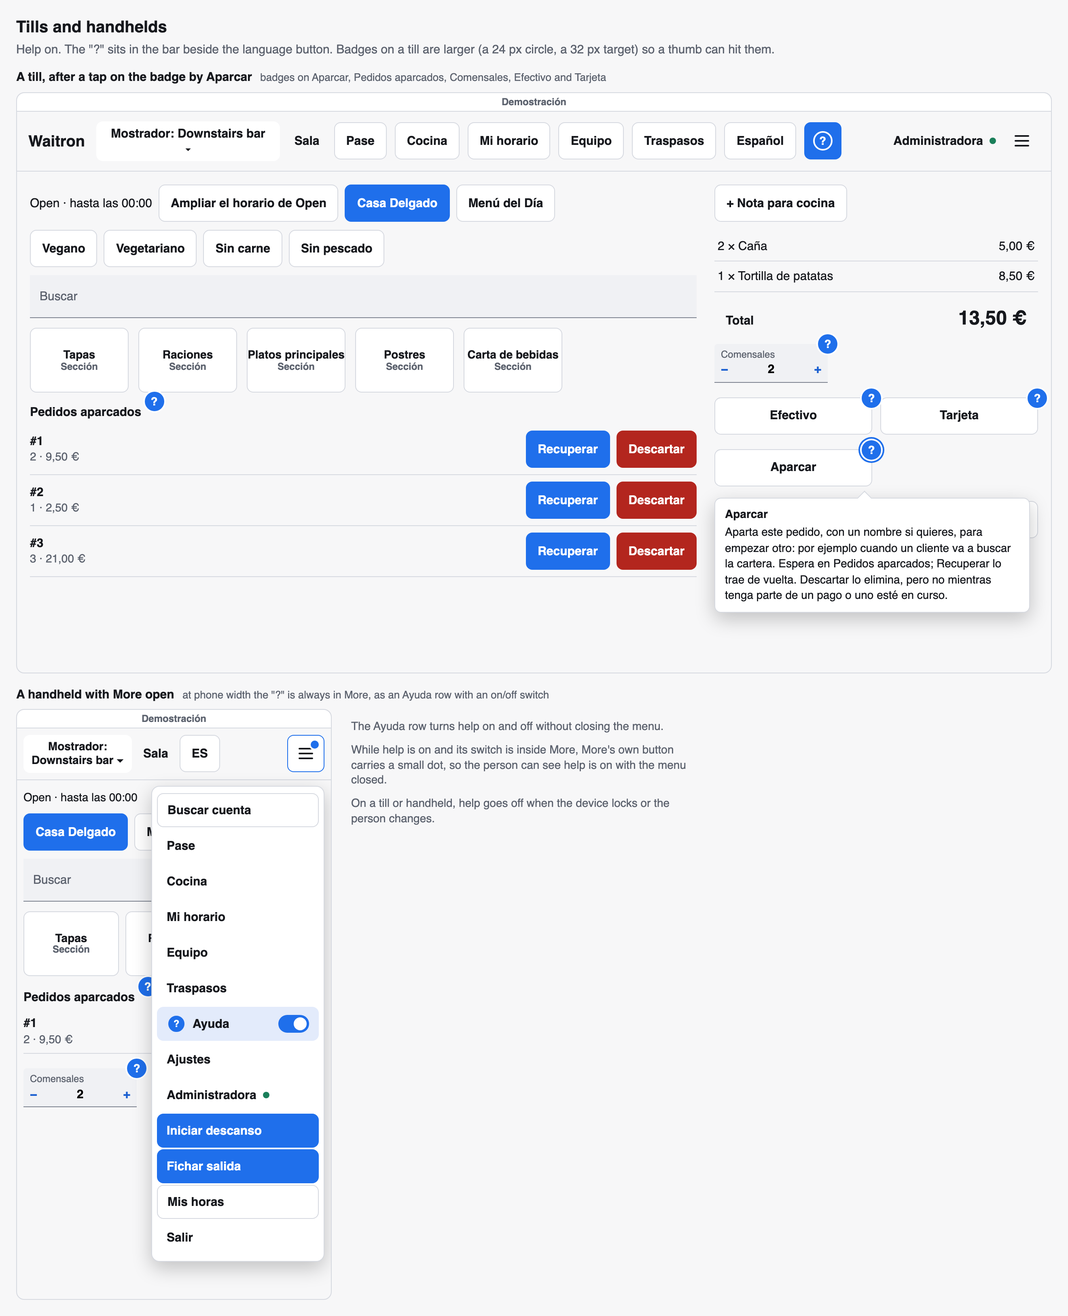
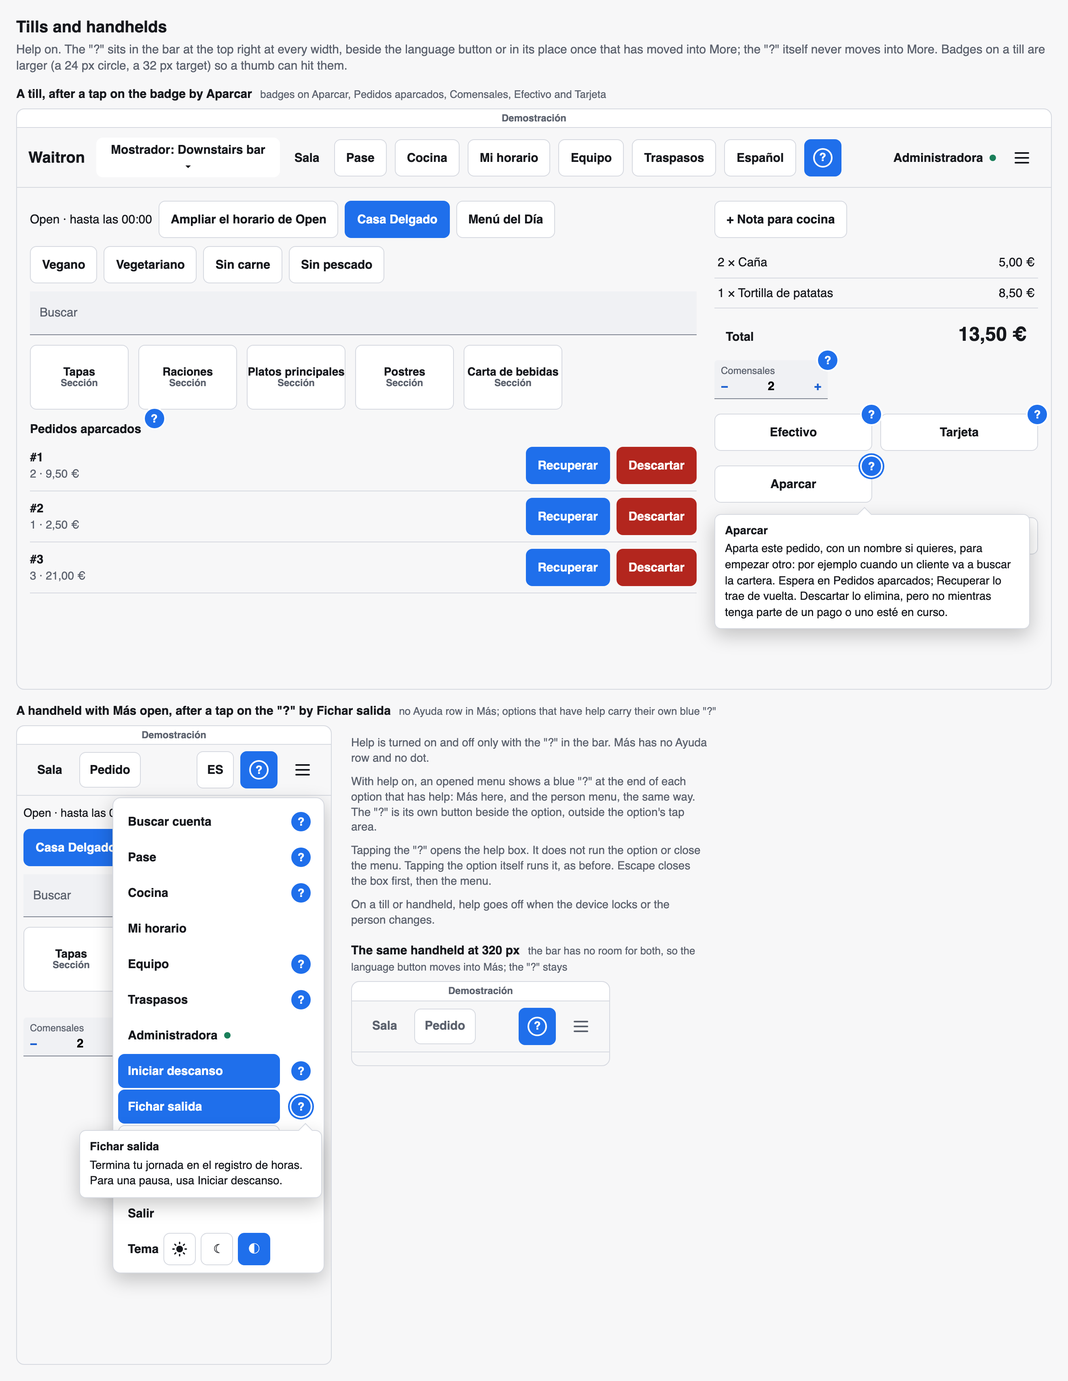
Record the owner's approval of the A582 help-mode design, with his one change
The owner approved help mode on 2026-10-18 (question Q37), with answers (a) to (e)
as recommended and one change: on a till or handheld there is no Help row in the
More menu. The "?" that turns help on stays in the bar at the top right at every
width, and with help on, an open menu shows a blue "?" beside each option that has
help.

The design now says:
- The "?" is never moved into More. Above phone width the bar's existing measuring
  counts it, and items leave in the same order as before. At phone width, when the
  bar no longer fits, the language chooser moves into More. Both were measured with
  throwaway browser tests in apps/till, deleted afterwards. At 320 px the tabs came
  up 2 to 53 px short with the "?" added, and fitted once the chooser had left.
- A new section on badges inside menus. The "?" is its own button at the end of the
  option's row. A tap on it opens the help box and neither runs the option nor
  closes the menu, through the menu's existing data-keep-open mark. It is its own
  Tab stop after the option, and a screen reader hears it as "Help: <option>". A
  throwaway test confirmed the tap, Escape and Tab behaviour, with a control that
  closed the menu.
- Slices: the menu badge is built in slice 2 for the dashboard's account and row
  menus and used in slice 4 for the till's More and person menus. Slice 1 stays the
  badge, the switch and the field and heading slots.
[…]

diff --git a/docs/superpowers/specs/2026-10-18-a582-help-mode-design.md b/docs/superpowers/specs/2026-10-18-a582-help-mode-design.md
@@ -1,14 +1,32 @@
 # A582 — Help mode: a "?" in the top bar marks everything that has help
 
-Status: **design, waiting for the owner's answer to one question (Q37 in lane C's questions file,
-repeated in §9 below). Nothing is built until then.** Backlog entry: `docs/backlog.md` "A582" and
+Status: **approved by the owner on 2026-10-18, with one change** (his answer to Q37, §9). On a till
+or handheld there is no Help row in the More menu: the "?" that turns help on stays in the bar at
+the top right at every width (§3.2). With help on, an open menu shows a blue "?" beside each option
+that has help (§3.3). Being built in lane C: slice 1 on branch `feat/a582-1-help-badge`.
+Backlog entry: `docs/backlog.md` "A582" and
 [its detail](../../backlog/dashboard.md#a582-help-mode-a--in-the-top-bar-marks-everything-that-has-help-owner-2026-10-13).
 Pictures: `docs/backlog/mockups/a582-help-mode/` (drawn in HTML with the apps' colour tokens, not
 screenshots; 02 also in dark, `-dark.png`).
 
-File references are to `main` at `2337d76e3`. **(read)** marks a conclusion from reading code, not
-from running it. Nothing in this design was run: it changes no behaviour, and every statement about
-today's code is (read).
+**Decided (owner, 2026-10-18), each as recommended in §9:**
+
+- (a) The look: a "?" in each top bar (the kitchen screens' corner); badges hang over a part's
+  corner so nothing moves; a badge opens a short box with an optional "Read more in the guide";
+  everything else keeps working while help is on. With the change above.
+- (b) Guide pages are served by the box itself, in English and Spanish, opening in a new tab on the
+  dashboard and in a full-screen sheet on a till.
+- (c) Help stays on until reload or sign-out on the dashboard, until the till locks or the person
+  changes, and until two minutes pass without a touch on a kitchen screen.
+- (d) The dashboard's always-visible "?" buttons become help-mode badges; the setup wizard keeps
+  its own.
+- (e) The order: badge and switch, then the dashboard with Products first, then guide pages, then
+  tills and handhelds, then kitchen screens and monitors (§8).
+
+File references are to `main` at `2337d76e3`, except those in §3.2, §3.3 and §5's menu line,
+added for the owner's change, which are to `main` at `f316485d0`. **(read)** marks a conclusion from
+reading code, not from running it. The measurements in §3.2 and §3.3 were run, and each says what
+ran; every other statement about today's code is (read).
 
 **Words.** A **badge** is the small circled "?" that help mode shows beside one part of a page. The
 **switch** is the circled "?" in the top bar that turns help mode on and off. A **guide page** is a
@@ -25,6 +43,9 @@ inside. And then if you click any of those, it gives you help or it takes you to
 documentation. So it's essentially a help mode that you can turn on and off. It doesn't obscure the
 page during the normal use, but you can get help about anything you want very quickly." And: "This
 for the dashboard and the devices, handhelds and tills. And probably the screens, monitors as well."
+
+Answering this design (2026-10-18): "The ayuda in the menu should go. Turn on help in the top right,
+open the menu, see options with a blue ? next to them, click the ? to see help."
 
 ## 2. What exists today
 
@@ -102,14 +123,76 @@ turns it off with the banner "?" again.
 session ends (§6).
 
 At phone width (picture 03) the banner keeps the "?" in its first row with the bell and the account
-menu; the logo column is the one that shrinks, as it already does for the other controls.
+menu; the logo column is the one that shrinks, as it already does for the other controls. That
+shrinking has a floor, and an earlier measurement says the "?" alone goes below it: in A681's plan
+review (2026-10-17, `docs/developers/design-system.md` → Dashboard banner), a 52 px stand-in in the
+signed-in banner shrank the lockup to 15 px at 360 px and 45 px at 390 px, below the 60 px that
+`apps/dashboard/src/dashboard-app.test.ts:5587` requires. (read: that receipt was not re-run for
+this design.) Slice 2 finds the room and its plan says how. The "?" stays in the banner, not in the
+account menu. The owner's answer was about the till's menu, but "Turn on help in the top right"
+reads as applying to the dashboard too; that is this design's reading, not his words about the
+dashboard.
 
 ### 3.2 Tills and handhelds (picture 04)
 
-The "?" joins the bar beside the language chooser. Like every other item it moves into More when
-the bar runs out of room, where it becomes a "Help" row with an on/off mark; at phone width it is
-always there. When help is on and the "?" is inside More, More's own button carries a small dot, so
-the person can see help is on without opening the menu.
+The "?" sits at the top right of the bar at every width (owner, 2026-10-18). It goes just after the
+language chooser, before the person's name and More, or in the chooser's place once the chooser
+has moved into More (below). **It never moves into More.** It is not one of the items in `LEAVE_ORDER`
+(`apps/till/src/widgets/till-shell.ts:50`), so More has no Help row and no "help is on" mark: the
+filled "?" in the bar already shows that help is on. Turning help on or off from the bar happens
+outside every menu, so a menu opened afterwards is drawn with or without its badges (§3.3).
+
+**How the bar makes room for it.** The "?" is a 44 px button plus the gap before it: 12 px above
+phone width and 8 px at phone width (`till-shell.ts:204` and `:247`). That is 56 or 52 px the bar did
+not have to find before.
+
+- **Above phone width** (wider than 40rem, `PHONE_WIDTH` in
+  `apps/till/src/widgets/language-chooser-styles.ts:4`), the bar already measures itself and moves
+  items into More one at a time until it fits on one row (`#fit`, `till-shell.ts:481`). The "?"
+  never leaves, like the language chooser, so its width is simply part of what the bar measures. The
+  items leave in the same order as today, each at a slightly wider screen. Measured 2026-10-18 on
+  `main` at `f316485d0`, with a throwaway Vitest browser test in `apps/till` (headless Chromium,
+  deleted afterwards). The test mounted `till-shell` in Spanish with Find a bill, Pass, Kitchen, My
+  schedule, Profile and Transfers present, with 56 px of padding standing in for the "?", from 660
+  to 1500 px in steps of 20 px, beside the same bar without it. The test covered the handheld's
+  tabs, the till's, and the till's with a counter-zone menu. The Waitron name left first, then
+  Transfers, Equipment, Profile, My schedule and Kitchen, the same order as without the stand-in;
+  with it, Pass also left at 660 px on the till with a counter-zone menu. At none of the widths
+  sampled did the stand-in send more than one extra item into More. At 1300 px, for example,
+  Transfers was in More with it and on the bar without it.
+- **At phone width** the bar does no measuring (`#fit` returns early, `till-shell.ts:484`). Every
+  item in `LEAVE_ORDER` is already in More (`till-shell.ts:392`), so the bar holds only the tabs,
+  the language chooser and More. The tabs take the room that is left and scroll sideways when it is
+  not enough (`till-shell.ts:129–137` and `:238`). Measured on the same day and commit with another
+  throwaway test of the same kind, at 320, 360 and 390 px
+  in Spanish and in English, with a 44 px stand-in placed after the language chooser, comparing the
+  width the tab strip needed with the width it got:
+
+  | Bar at phone width                                  | 320 px                       | 360 px                       | 390 px |
+  | --------------------------------------------------- | ---------------------------- | ---------------------------- | ------ |
+  | Handheld: Sala, Pedido                              | needs 135, gets 132 (EN 133/131) | fits                     | fits   |
+  | Till form factor: Mostrador, Sala                   | needs 159, gets 132 (EN 149/131) | fits                     | fits   |
+  | Till with a counter-zone menu: Mostrador: … ▾, Sala | needs 178, gets 132 (EN 184/131) | needs 178, gets 172 (EN 184/171) | fits |
+
+  Without the stand-in, which is today's bar, the strip got 184 px at 320 (183 in English), and
+  every case fitted except one: English with a counter-zone menu was already 1 px short. With the
+  language chooser taken off the bar and the stand-in in its place, the strip got 192 px at 320,
+  232 at 360 and 262 at 390, and every case fitted.
+
+  **The rule:** at phone width, when the bar does not fit on one row with the "?", the language
+  chooser is the next item to leave. At phone width it is the only item left on the bar that can.
+  It moves into More, where it still opens the same list of languages. Today nothing at phone width
+  checks whether the bar fits, so slice 4 adds that check: the bar's existing check for "too wide"
+  (`#wraps`, `till-shell.ts:472`, which compares the bar's and the tab strip's needed widths with
+  the widths they get) runs at phone width for this one step. The slice 4 plan decides where in More the chooser
+  goes and in what form. On a handheld this keeps the chooser on the bar at 360 px
+  and wider and moves it into More at 320 px. On a till-form-factor device it moves into More at
+  320 px, and at 360 px too when the till has a counter-zone menu. Once the chooser has left, the
+  tabs get 8 px more than they get today (9 in English), so every bar measured that fits today
+  still fits. The cost: a
+  language change at 320 px takes one more tap, and More gains a row on a screen where it is already
+  taller than the room it gets (`docs/backlog.md`, "On a short phone the till's More menu is taller
+  than the room it gets").
 
 **Marc, on his first shift at the counter**, does not know what Hold (Aparcar) does. He turns help
 on; badges appear beside Hold, the Held orders list, Guests and the payment buttons (the Held orders
@@ -131,7 +214,63 @@ never a new tab: a till runs full-screen and has no tab bar to come back by.
 **On a till, help goes off when the till locks or the person changes**, so the next person never
 starts with badges on.
 
-### 3.3 Kitchen screens and monitors (picture 05)
+### 3.3 Badges inside menus (picture 04)
+
+With help on, opening a menu shows a blue "?" at the trailing end of each option that has help:
+the till's More and person menus, the dashboard's account menu, a table row's ⋮ menu (each a
+`wt-row-actions`). Tapping that "?" opens the help box for that option (owner, 2026-10-18). Help is
+switched from the bar, outside every menu, and a tap outside an open menu closes it. So usually a
+menu gets its badges when it opens. Help can still change while a menu is open: a keyboard user
+can move focus out of an open menu back to the bar's "?" with Shift+Tab, because focus leaving a
+`wt-row-actions` menu does not close it (read: it closes on a chosen action or Escape,
+`wt-row-actions.ts:180–192`, and on a tap outside through the browser's own popover behaviour,
+`:208`; nothing in it listens for focus leaving). Then the open menu shows or hides its badges at once, and slice 2
+tests that case.
+
+- **Its own button, beside the option.** The badge is a separate button next to the option, never
+  inside it: a button inside a button is not valid HTML, and the tap would reach both. The option
+  keeps its full height and the rest of the row's width. The badge takes a 44 px square
+  (`--wt-tap-min`) at the row's trailing end, outside the option's tap area, with the same circle
+  as a page badge (24 px on a till and a handheld, 20 px on the dashboard). Unlike a page badge, a
+  menu badge takes room of its own: hung over the option's corner, it would cover the option's
+  label or part of the place a person taps to run it. A menu that has badges can be up to that
+  square wider.
+- **A tap on the "?"** opens the help box under the badge, kept inside the window as everywhere. It
+  does not run the option and does not close the menu. A tap on the option itself runs it and
+  closes the menu, as today, and closes an open box with it. A second tap on the "?" or Escape
+  closes the box. The first Escape closes only the box and puts focus back on the "?"; the next one
+  closes the menu.
+  `wt-row-actions` closes on a click on any button inside it unless the click passed through an
+  element marked `data-keep-open` (`packages/ui/src/components/wt-row-actions.ts:147`, read). The
+  menu badge carries that mark. Measured 2026-10-18 with a throwaway Vitest browser test in
+  `apps/till` (headless Chromium, deleted afterwards). A `wt-row-actions` held a row with a
+  `wt-button` option and today's `wt-help-tooltip` beside it marked `data-keep-open`. A click on
+  the "?" left the menu open, opened the box and did not run the option. Escape closed the box,
+  with the menu still open and focus on the "?". A second Escape closed the menu. A click on the
+  option ran it and closed the menu, and with the box open it closed the box too. The control, the
+  same row without `data-keep-open`: a click on the "?" closed the menu, and the box was not open
+  afterwards.
+- **Keyboard.** `wt-row-actions` moves between its items with Tab, not the arrow keys; its only key
+  of its own is Escape (`wt-row-actions.ts:185`, read). So the badge is its own Tab stop, straight
+  after its option, and Enter or Space opens its box. While help is off the badge is not drawn and
+  adds no stop. Measured in the same test: Tab from the menu's button went to the option, then its
+  "?", then the next option. With focus on the "?", Enter opened the box, a second Enter closed it,
+  and Space opened it again, each time with the menu still open and the option not run.
+- **Not in this work:** the menus whose options move with the arrow keys, which are the language
+  and theme choosers, through `MenuPopover` (`packages/ui/src/menu-popover.ts:134`). Also left out
+  are lists marked `role="menu"` inside a `wt-row-actions`, such as the till's counter-zone menu
+  (`till-shell.ts:750`), because a plain button inside `role="menu"` is not a menu item to a screen
+  reader. None of their options (a language, a theme, a counter zone) needs help. Whichever of
+  these menus first needs a badge settles how one is reached there; in an arrow-key menu, the
+  arrow-right key from the option is one way.
+- **What a screen reader hears.** The option is heard as today, for example "Cocina, button". The
+  badge is a separate button named "Help:" and the option's label ("Ayuda: Cocina"), announced as
+  expanded or collapsed. Once open, its box is read as the badge's description, as
+  `wt-help-tooltip` does today (`packages/ui/src/components/wt-help-tooltip.ts:127–129`, read).
+  `wt-row-actions`' popup is not `role="menu"` (`wt-row-actions.ts:208`, read), so a second button
+  in a row is valid there.
+
+### 3.4 Kitchen screens and monitors (picture 05)
 
 They have no bar, so the "?" joins the theme and language corner. On a station board or the pass,
 badges explain the board's buttons and what its colours and times mean. On a monitor, which has no
@@ -162,12 +301,18 @@ kitchen screen is often left alone and nobody would think to turn it off.
 - **One shared element.** `wt-help-tooltip` grows into the help-mode badge (renamed `wt-help`, or
   kept under its name; the plan decides). It reads one app-wide help switch. While help is off it
   draws nothing and takes no room. While on, it draws the badge over the top trailing corner of
-  where it sits, without changing the layout around it.
+  where it sits, without changing the layout around it. The exception is a menu row, where it
+  takes its own square (§3.3).
 - **Where it goes.** In a field's existing `help` slot; beside a heading; on a table column through a
   `help` text on the column's definition in `wt-data-table`; on a tab through a `help` text on the
   tab item in `wt-tabs`; in a dialog's heading or a folding section's (`wt-disclosure`).
   `wt-price-input`, `wt-number-stepper` and `wt-file-input` gain the `help` slot `wt-input` has;
   the other field primitives gain one when a screen first needs it. The primitives draw the badge; a screen never draws its own.
+- **In a menu (§3.3)**, the badge is the same element, placed by a menu-row element that
+  `packages/ui` adds for `wt-row-actions` (the slice 2 plan names it). The row lays out the option
+  with the badge in its own square at the trailing end, and marks the badge `data-keep-open` so the
+  menu stays open (`wt-row-actions.ts:147`). A screen gives an option its help text through that
+  row; it never draws the badge or the row's layout itself.
 - **The box** keeps today's behaviour (opens below, pushed up when there is no room; clamped inside
   the window; Escape, a click outside, a second tap or focus leaving close it) and gains an optional "Read more in the guide" link and, on a till, the sheet.
 - **The switch** is a small piece of shared state in `packages/ui`, beside the theme choice
@@ -177,7 +322,8 @@ kitchen screen is often left alone and nobody would think to turn it off.
 
 - The switch is a toggle button ("Help", pressed or not). Each badge is a real button named for its
   part ("Help: Selling unit"), reachable with Tab only while help is on. The box is announced as the
-  badge's description, as today.
+  badge's description, as today. In a menu, the badge is the Tab stop straight after its option
+  (§3.3).
 - Help stays on across pages in one browser tab and goes off on reload, sign-out or session end
   (dashboard), on lock or a change of person (till and handheld), and after two minutes without a
   touch (kitchen screen and monitor). It is not saved anywhere, so it needs no migration and no
@@ -201,15 +347,22 @@ Each slice is one pull request one implementer can finish (well under ~100 tool 
    with no layout change; `wt-price-input`, `wt-number-stepper` and `wt-file-input` gain the
    `help` slot; `wt-disclosure` and `wt-dialog` take one beside their heading; the
    design-system entry. Tests: the badge takes no room while off (measured), paints from tokens, axe
-   in both themes on and off.
-2. **The dashboard**: the banner switch; `help` on table columns and tabs; the four dashboard "?"
-   become badges; Products as the first screen with help on every part that needs it.
+   in both themes on and off. Slice 1 is only the badge, the switch and the help slots on fields
+   and headings. Badges inside menus are not part of it.
+2. **The dashboard**: the banner switch, with room found for it at phone width (§3.1); `help` on
+   table columns and tabs; §7's dashboard "?" buttons become badges; Products as the first screen with
+   help on every part that needs it. **The menu-option badge** (§3.3) is built here: the menu-row
+   element in `packages/ui`, `data-keep-open` on its badge, the Tab order, and its tests (a tap on
+   the "?" opens the box without running the option or closing the menu, Escape closes the box
+   first). Its first users are the dashboard's account menu and the ⋮ row menus (`wt-row-actions`).
 3. **Guide pages on the box**: the three guides move to `docs/guide/en/` and get Spanish twins;
    built into the image; served at `/help/<language>/<page>`; "Read more" from Products. A new
    unauthenticated route, so its review is FULL. If rendering the guides needs a new third-party
    library, its licence notice ships with it (`CLAUDE.md` §3).
-4. **Tills and handhelds**: the bar switch and its More row; badges on Counter, Floor and Order; the
-   guide sheet; off on lock or a change of person.
+4. **Tills and handhelds**: the bar switch at the top right at every width, never in More, with
+   the language chooser moving into More at phone width when the bar does not fit (§3.2); option
+   badges in the More and person menus, through slice 2's menu row; badges on Counter, Floor and
+   Order; the guide sheet; off on lock or a change of person.
 5. **Kitchen screens and monitors**: the corner switch; badges on the station board, the pass and
    the monitor; off after two minutes without a touch.
 
@@ -219,6 +372,11 @@ screen (a sign-in screen, kept out to keep these slices off the sign-in path), a
 wizard beyond what it has.
 
 ## 9. The owner's question (Q37)
+
+**Answered 2026-10-18:** approved, with (a)–(e) as recommended and one change. On a till or handheld
+there is no Help row in More: the "?" stays in the bar at the top right at every width. With help
+on, an open menu shows a blue "?" beside each option that has help. §3.2 and §3.3 now describe that.
+The question below is the record of what was asked, and its §3.2 was the version before the change.
 
 **Do you approve help mode as described, with these five choices?** Each has a recommended answer;
 "all recommended" is a complete answer.

diff --git a/docs/backlog/dashboard.md b/docs/backlog/dashboard.md
@@ -1089,12 +1089,15 @@ help about anything you want very quickly."
   `docs/content-and-images.md`, English only); nothing in the apps links to them and the box does
   not serve them. The design (below) proposes serving them from the box in English and Spanish.
 - **Design (2026-10-18):** [2026-10-18-a582-help-mode-design.md](../superpowers/specs/2026-10-18-a582-help-mode-design.md),
-  pictures in [mockups/a582-help-mode/](mockups/a582-help-mode/). It settles the open points above
-  as recommendations and waits for the owner's answer to its one question (§9).
+  pictures in [mockups/a582-help-mode/](mockups/a582-help-mode/). It settles the open points above.
+  The owner approved it on 2026-10-18 with one change: on a till or handheld there is no Help row
+  in More, because the "?" stays in the bar at the top right at every width. With help on, an open
+  menu shows a blue "?" beside each option that has help. Being built in lane C, slice 1 on branch
+  `feat/a582-1-help-badge`.
 - **Relation to A237.** The standing rule (owner 2026-10-03) makes a short explanation the field's
   hint, never a "?" button. Help mode fits beside it: hints stay where they are, and help mode is the
-  place for the longer explanation. A237's remaining "?" buttons may move into help mode instead of
-  becoming hints; decide in the plan.
+  place for the longer explanation. Decided with the design (owner, 2026-10-18; design §7): the
+  dashboard's remaining "?" buttons become help-mode badges, and the setup wizard keeps its own.
 
 
 ## A653 — every long dashboard table scrolls the same way, with less above it

diff --git a/docs/backlog.md b/docs/backlog.md
@@ -3682,9 +3682,10 @@ _Formerly A7, and the dashboard entries in the opening part of the old Track A (
   repository (lane C, `a585-1-shots/11a-…`, `11b-…`, `11c-…`).
 
 - **A582. Help mode: a "?" in the top bar marks everything that has help (owner 2026-10-13)** —
-  DESIGNED 2026-10-18, waiting for the owner's answer to one question
+  DESIGNED and approved 2026-10-18
   ([design](superpowers/specs/2026-10-18-a582-help-mode-design.md), pictures in
-  [mockups/a582-help-mode/](backlog/mockups/a582-help-mode/)); not built. On the dashboard and on every device — tills, handhelds, and probably the
+  [mockups/a582-help-mode/](backlog/mockups/a582-help-mode/)); being built in lane C, slice 1 of 5
+  on branch `feat/a582-1-help-badge`. On the dashboard and on every device — tills, handhelds, and probably the
   kitchen screens and monitors — a circled "?" in the top bar switches help mode on and off; while
   on, a small circled "?" appears beside each thing on the page that has help, and clicking one shows
   the help or opens its page in the documentation. Nothing changes on the page while it is off.
